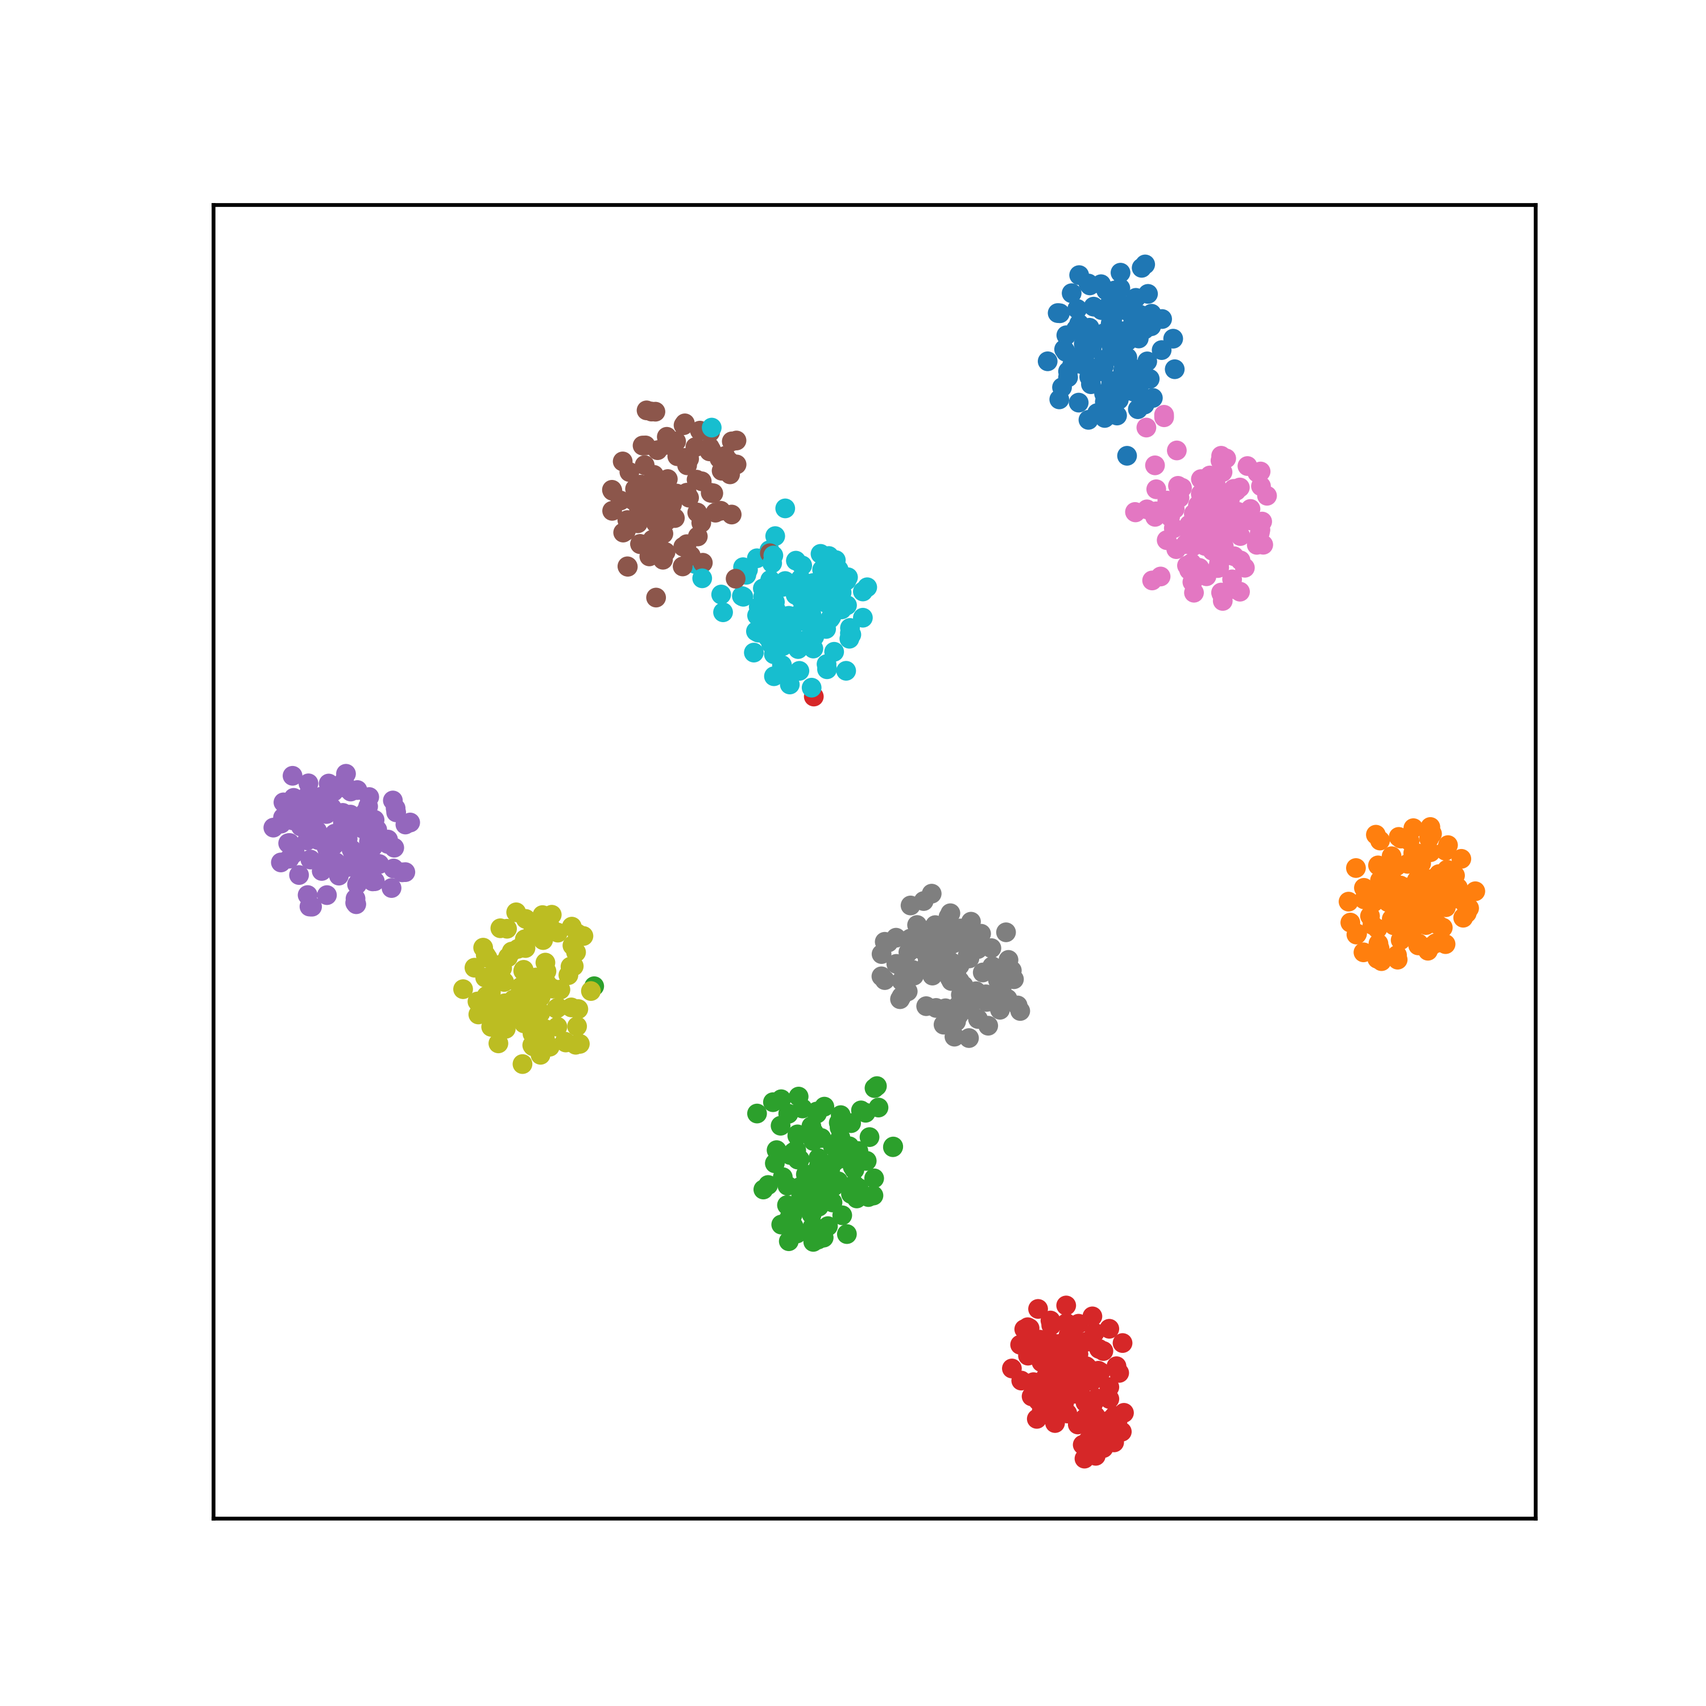
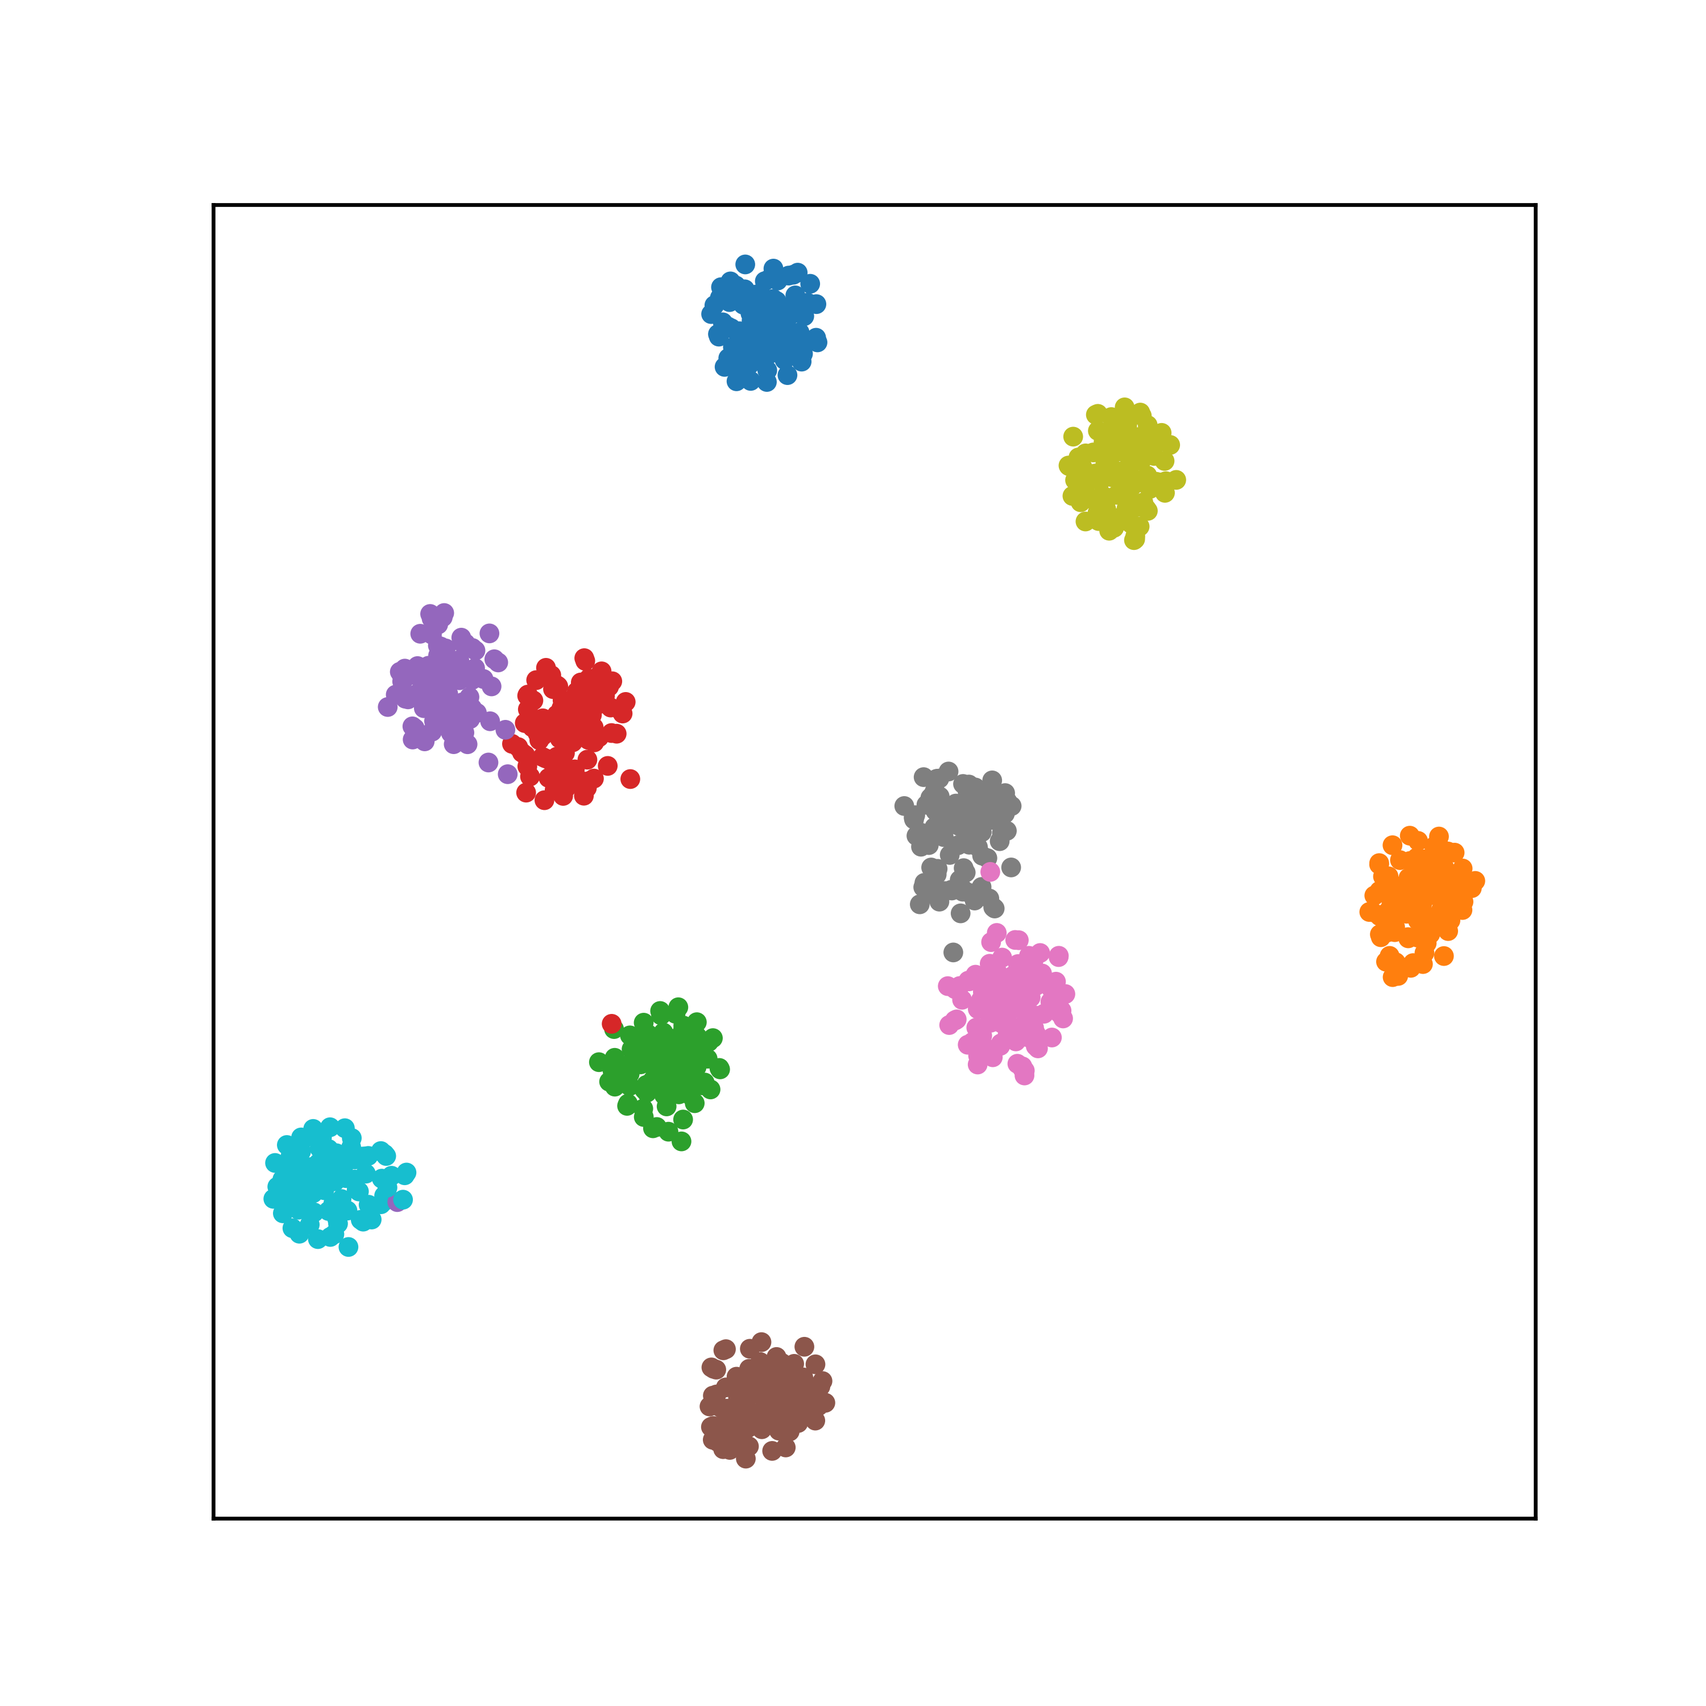
xiugai

diff --git a/selfsupcon_supcon_train_pruned_pipline.py b/selfsupcon_supcon_train_pruned_pipline.py
@@ -343,7 +343,9 @@ def main():
 
         logger.info('epoch {}, total_loss is {:.2f}, supcon_loss is {:.2f}, selfsupcon_loss is {:.2f}'.
                     format(epoch, total_loss, supcon_loss, selfsupcon_loss))
-        epochlist = [300, 350, 400, 450, 500, 550, 600, 650, 700, 750, 800, 850, 900, 950, 1000]
+        # epochlist = [300, 350, 400, 450, 500, 550, 600, 650, 700, 750, 800, 850, 900, 950, 1000]
+        epochlist = [1, 150, 200, 250, 300, 350, 400, 450, 500, 550, 600, 650, 700]
+        k = -4
         if (epoch + 1) in epochlist:
             # 保存模型
             jieduan_ckpt_model_name = '{}_epoch{}_{}_{}.pth.tar'.format(total_loss,
@@ -356,46 +358,57 @@ def main():
             # model_accu + '_' + args.arch + '_' + args.dataset + '_repeat%d' % (args.repeat)
             # fmap_saved_dir = os.path.join("../conv_feature_map", 'selfsupcon-supcon_scrach_train', now,
             #                               str(total_loss) + '_' + args.arch + '_' + args.dataset + '_repeat%d' % (5))
-            fmap_saved_dir = os.path.join("../conv_feature_map", 'selfsupcon-supcon_scrach_train', args.arch, now,
+            fmap_saved_dir = os.path.join("../conv_feature_map", 'selfsupcon-supcon_scrach_train', "k={}".format(k), args.arch, now,
                                           str(total_loss) + '_' + args.dataset + '_repeat%d' % (5))
             fmap_cal_cmd = "python calculate_feature_maps_n.py --arch {} --dataset {} --data_dir ./data " \
                            "--pretrain_dir {} --save_dir {}".format(args.arch, args.dataset, jieduan_ckpt_path, fmap_saved_dir)
             print(fmap_cal_cmd)
             execute_command([fmap_cal_cmd])
 
-            # 计算ci
-            # ci_save_dir = os.path.join('./calculated_ci', 'selfsupcon-supcon_scrach_train', now, str(total_loss) + '_' +
-            #                            args.arch + '_' + args.dataset)
-            # ci_cal_cmd = 'python calculate_ci_n.py --arch {} --repeat 5 --num_layers 55 \
-            # --feature_map_dir {} --save_dir {}'.format(args.arch, fmap_saved_dir, ci_save_dir)
-            # execute_command([ci_cal_cmd])
+            # 计算selfsupcon_supcon_adapter15resnet_56的ci
+            ci_save_dir = os.path.join('./calculated_ci', 'selfsupcon-supcon_scrach_train', "k={}".format(k), now, str(total_loss) + '_' +
+                                       args.arch + '_' + args.dataset)
+            ci_cal_cmd = 'python calculate_ci_n.py --arch {} --repeat 5 --num_layers 55 \
+            --feature_map_dir {} --save_dir {}'.format(args.arch, fmap_saved_dir, ci_save_dir)
+            execute_command([ci_cal_cmd])
 
             # 计算selfsupcon_supcon_adapter15resnet_20的ci
-            ci_save_dir = os.path.join('./calculated_ci', 'selfsupcon-supcon_scrach_train', args.arch, now, str(total_loss) +
-                                        '_' + args.dataset)
-            ci_cal_cmd = 'python calculate_ci_n.py --arch {} --repeat 5 --num_layers 19 \
-                        --feature_map_dir {} --save_dir {}'.format(args.arch, fmap_saved_dir, ci_save_dir)
-            execute_command([ci_cal_cmd])
+            # ci_save_dir = os.path.join('./calculated_ci', 'selfsupcon-supcon_scrach_train', args.arch, now, str(total_loss) +
+            #                             '_' + args.dataset)
+            # ci_cal_cmd = 'python calculate_ci_n.py --arch {} --repeat 5 --num_layers 19 \
+            #             --feature_map_dir {} --save_dir {}'.format(args.arch, fmap_saved_dir, ci_save_dir)
+            # execute_command([ci_cal_cmd])
             # 压缩迁移微调，从cifar10迁移到svhn
-            graf_pruned_60_result_dir = os.path.join('./result/selfsupcon-supcon_graf_pruned', args.arch, now,
-                                                     str(total_loss) + '_' + 'cifar10tosvhn' + '_' +
-                                                     'adapter15resnet_20' + '_' + 'pruned_60')
-            graf_pruned_60_cmd = "python graf_prune_finetune_cifar_n.py --pretrained_dataset cifar10 --finetune_dataset " \
-                                 "svhn --finetune_data_dir ./data/svhn --pretrained_arch adapter15resnet_20 --finetune_arch adapter15resnet_20 " \
-                                 "--result_dir {} --ci_dir {} --batch_size 128 --epochs 300 --lr_type cos --learning_rate 0.01 " \
-                                 "--momentum 0.9 --weight_decay 0.0005 --pretrain_dir {} --sparsity [0.]+[0.3]*2+[0.4]*3+[0.5]*3+[0.6]*3 --adapter_sparsity [0.6]" \
-                                 "".format(graf_pruned_60_result_dir, ci_save_dir, jieduan_ckpt_path)
-            print("graf_pruned_60_cmd: ", graf_pruned_60_cmd)
+            # graf_pruned_60_result_dir = os.path.join('./result/selfsupcon-supcon_graf_pruned', args.arch, now,
+            #                                          str(total_loss) + '_' + 'cifar10tosvhn' + '_' +
+            #                                          'adapter15resnet_20' + '_' + 'pruned_60')
+            # graf_pruned_60_cmd = "python graf_prune_finetune_cifar_n.py --pretrained_dataset cifar10 --finetune_dataset " \
+            #                      "svhn --finetune_data_dir ./data/svhn --pretrained_arch adapter15resnet_20 --finetune_arch adapter15resnet_20 " \
+            #                      "--result_dir {} --ci_dir {} --batch_size 128 --epochs 300 --lr_type cos --learning_rate 0.01 " \
+            #                      "--momentum 0.9 --weight_decay 0.0005 --pretrain_dir {} --sparsity [0.]+[0.3]*2+[0.4]*3+[0.5]*3+[0.6]*3 --adapter_sparsity [0.6]" \
+            #                      "".format(graf_pruned_60_result_dir, ci_save_dir, jieduan_ckpt_path)
+            # print("graf_pruned_60_cmd: ", graf_pruned_60_cmd)
 
             # 压缩迁移微调，从cifar10到cifar10
-            graf_pruned_60_result_dir_normal = os.path.join('./result/selfsupcon-supcon_graf_pruned_normal', args.arch, now,
-                                                     str(total_loss) + '_' +
-                                                     'cifar10tocifar10' + '_' + 'adapter15resnet_20' + '_' + 'pruned_60')
-            graf_pruned_60_cmd_normal = "python graf_prune_finetune_cifar_n.py --pretrained_dataset cifar10 --finetune_dataset " \
-                                 "cifar10 --finetune_data_dir ./data --pretrained_arch adapter15resnet_20 --finetune_arch adapter15resnet_20 " \
-                                 "--result_dir {} --ci_dir {} --batch_size 128 --epochs 300 --lr_type cos --learning_rate 0.01 " \
-                                 "--momentum 0.9 --weight_decay 0.0005 --pretrain_dir {} --sparsity [0.]+[0.3]*2+[0.4]*3+[0.5]*3+[0.6]*3 --adapter_sparsity [0.6]" \
-                                        "".format(graf_pruned_60_result_dir_normal, ci_save_dir, jieduan_ckpt_path)
+            # graf_pruned_60_result_dir_normal = os.path.join('./result/selfsupcon-supcon_graf_pruned_normal', args.arch, now,
+            #                                          str(total_loss) + '_' +
+            #                                          'cifar10tocifar10' + '_' + 'adapter15resnet_20' + '_' + 'pruned_60')
+            # graf_pruned_60_cmd_normal = "python graf_prune_finetune_cifar_n.py --pretrained_dataset cifar10 --finetune_dataset " \
+            #                      "cifar10 --finetune_data_dir ./data --pretrained_arch adapter15resnet_20 --finetune_arch adapter15resnet_20 " \
+            #                      "--result_dir {} --ci_dir {} --batch_size 128 --epochs 300 --lr_type cos --learning_rate 0.01 " \
+            #                      "--momentum 0.9 --weight_decay 0.0005 --pretrain_dir {} --sparsity [0.]+[0.3]*2+[0.4]*3+[0.5]*3+[0.6]*3 --adapter_sparsity [0.6]" \
+            #                             "".format(graf_pruned_60_result_dir_normal, ci_save_dir, jieduan_ckpt_path)
+
+            # 压缩迁移微调，从cifar10到cifar10, 裁剪率70%
+            graf_pruned_70_result_dir_normal = os.path.join('./result/selfsupcon-supcon_graf_pruned_normal', "k=8", args.arch,
+                                                            now,
+                                                            str(total_loss) + '_' +
+                                                            'cifar10tocifar10' + '_' + 'adapter15resnet_56' + '_' + 'pruned_70')
+            graf_pruned_70_cmd_normal = "python graf_prune_finetune_cifar_n.py --pretrained_dataset cifar10 --finetune_dataset " \
+                                        "cifar10 --finetune_data_dir ./data --pretrained_arch adapter15resnet_56 --finetune_arch adapter15resnet_56 " \
+                                        "--result_dir {} --ci_dir {} --batch_size 128 --epochs 300 --lr_type cos --learning_rate 0.05 " \
+                                        "--momentum 0.9 --weight_decay 0.0005 --pretrain_dir {} --sparsity [0.]+[0.4]*2+[0.5]*9+[0.6]*9+[0.67]*9 --adapter_sparsity [0.7]" \
+                                        "".format(graf_pruned_70_result_dir_normal, ci_save_dir, jieduan_ckpt_path)
 
             # graf_pruned_48_result_dir = os.path.join('./result/selfsupcon-supcon_graf_pruned', now, str(total_loss) + '_' +
             #                                          'cifar10tocifar100' + '_' + 'adapter15resnet_56' + '_' + 'pruned_48')
@@ -425,8 +438,9 @@ def main():
             #                      "--adapter_sparsity [0.4]".format(graf_pruned_48_result_dir, ci_save_dir,
             #                                                        jieduan_ckpt_path)
 
-            # graf_pruned_70_result_dir = os.path.join('./result/selfsupcon-supcon_graf_pruned', now, str(total_loss) + '_' +
-            #                                          'cifar10tocifar100' + '_' + 'adapter15resnet_56' + '_' + 'pruned_70')
+            graf_pruned_70_result_dir = os.path.join('./result/selfsupcon-supcon_graf_pruned', "k=8", args.arch,
+                                                     now, str(total_loss) + '_' +
+                                                     'cifar10tocifar100' + '_' + 'adapter15resnet_56' + '_' + 'pruned_70')
             # graf_pruned_70_result_dir = os.path.join('./result/selfsupcon-supcon_graf_pruned', now, str(total_loss) + '_' +
             #                                          'cifar10tocifar100' + '_' + 'resnet_56' + '_' + 'pruned_70')
 
@@ -436,11 +450,11 @@ def main():
             #                                          'cifar100tocifar100' + '_' + 'adapter15resnet_56' + '_' + 'pruned_70')
 
 
-            # graf_pruned_70_cmd = "python graf_prune_finetune_cifar_n.py --pretrained_dataset cifar10 --finetune_dataset " \
-            #                      "cifar100 --finetune_data_dir ./data --pretrained_arch adapter15resnet_56 --finetune_arch adapter15resnet_56 " \
-            #                      "--result_dir {} --ci_dir {} --batch_size 128 --epochs 300 --lr_type cos --learning_rate 0.1 " \
-            #                      "--momentum 0.9 --weight_decay 0.0005 --pretrain_dir {} --sparsity [0.]+[0.4]*2+[0.5]*9+[0.6]*9+[0.7]*9 " \
-            #                      "--adapter_sparsity [0.7]".format(graf_pruned_70_result_dir, ci_save_dir, jieduan_ckpt_path)
+            graf_pruned_70_cmd = "python graf_prune_finetune_cifar_n.py --pretrained_dataset cifar10 --finetune_dataset " \
+                                 "cifar100 --finetune_data_dir ./data --pretrained_arch adapter15resnet_56 --finetune_arch adapter15resnet_56 " \
+                                 "--result_dir {} --ci_dir {} --batch_size 128 --epochs 300 --lr_type cos --learning_rate 0.1 " \
+                                 "--momentum 0.9 --weight_decay 0.0005 --pretrain_dir {} --sparsity [0.]+[0.4]*2+[0.5]*9+[0.6]*9+[0.7]*9 " \
+                                 "--adapter_sparsity [0.7]".format(graf_pruned_70_result_dir, ci_save_dir, jieduan_ckpt_path)
             # graf_pruned_70_cmd = "python graf_prune_finetune_cifar_n.py --pretrained_dataset cifar10 --finetune_dataset " \
             #                      "cifar100 --finetune_data_dir ./data --pretrained_arch resnet_56 --finetune_arch resnet_56 " \
             #                      "--result_dir {} --ci_dir {} --batch_size 128 --epochs 300 --lr_type cos --learning_rate 0.1 " \
@@ -454,7 +468,8 @@ def main():
             #                      "--momentum 0.9 --weight_decay 0.0005 --pretrain_dir {} --sparsity [0.]+[0.4]*2+[0.5]*9+[0.6]*9+[0.7]*9 " \
             #                      "--adapter_sparsity [0.7]".format(graf_pruned_70_result_dir, ci_save_dir,
             #                                                        jieduan_ckpt_path)
-            execute_command([graf_pruned_60_cmd, graf_pruned_60_cmd_normal])
+            # execute_command([graf_pruned_60_cmd, graf_pruned_60_cmd_normal])
+            execute_command([graf_pruned_70_cmd, graf_pruned_70_cmd_normal])
 
         utils.save_checkpoint({'epoch': epoch, 'state_dict': model.state_dict(), 'optimizer':
                                 optimizer.state_dict(),}, False, args.result_dir)

diff --git a/scatter_plot.py b/scatter_plot.py
@@ -112,11 +112,11 @@ if __name__ == '__main__':
     parser.add_argument('--data_dir', type=str, default='./data', help='path to dataset')
     # parser.add_argument('--dataset', type=str, default='cifar10', help='dataset')
     parser.add_argument('--dataset', type=str, default='cifar100', help='dataset')
-    # parser.add_argument('--arc', type=str, default='resnet_56', help='arcs')
+    parser.add_argument('--arc', type=str, default='resnet_56', help='arcs')
     # parser.add_argument('--arc', type=str, default='adapter15resnet_56', help='arcs')
     # parser.add_argument('--arc', type=str, default='selfsupcon_adapter15resnet_56', help='arcs')
     # parser.add_argument('--arc', type=str, default='selfsupcon_supcon_resnet_56', help='arcs')
-    parser.add_argument('--arc', type=str, default='selfsupcon_supcon_adapter15resnet_56', help='arcs')
+    # parser.add_argument('--arc', type=str, default='selfsupcon_supcon_adapter15resnet_56', help='arcs')
     # parser.add_argument('--arc', type=str, default='supcon_adapter15resnet_56', help='arcs')
     # parser.add_argument('--arc', type=str, default='selfsupcon_supcon_adapter_vgg_16_bn', help='arcs')
     # parser.add_argument('--arc', type=str, default='adapter_vgg_16_bn', help='arcs')
@@ -143,7 +143,7 @@ if __name__ == '__main__':
     # model1 = get_model('./pretrained_models/33.39_supcon-ce_adapter15resnet_56_cifar10.pth.tar')
     # name = "72.68_resnet_56_cifar100"
     # name = "72.23_resnet_56_cifar100"
-    # name = "72.60_resnet_56_cifar100"
+    name = "72.60_resnet_56_cifar100"
     # name = "49.48_epoch1000_selfsupcon-supcon_adapter15resnet_56_cifar100"
     # name = "48.77_epoch1000_selfsupcon_supcon_adapter15resnet_56_cifar100"
     # name = "50.07_epoch1000_selfsupcon-supcon_adapter15resnet_56_cifar10"
@@ -182,7 +182,10 @@ if __name__ == '__main__':
     # name = 'epoch1000_1selfsupcon-0supcon_adapter15resnet_56_cifar10'
 
     # name = 'epoch700_1selfsupcon-0supcon_adapter15resnet_56_cifar100'
-    name = 'epoch1000_1selfsupcon-0supcon_adapter15resnet_56_cifar100'
+    # name = 'epoch1000_1selfsupcon-0supcon_adapter15resnet_56_cifar100'
+
+    # name = 'epoch700_1selfsupcon-0supcon_resnet_56_cifar100'
+    # name = 'epoch1000_1selfsupcon-0supcon_resnet_56_cifar100'
 
     model1 = get_model('./pretrained_models/' + name + '.pth.tar', args)
     # model1 = get_model('./pretrained_models/4.30_supcon-ce_adapter15resnet_56_cifar10.pth.tar')

diff --git a/models/selfsupcon_supcon_adapter_resnet.py b/models/selfsupcon_supcon_adapter_resnet.py
@@ -22,7 +22,8 @@ adoch_cfg = {
     'adapter12': [16 * 8] * 3 + [32 * 8] * 3 + [64 * 8] * 3,
     'adapter13': [64 * 8] * 3,
     'adapter14': [64 * 8] * 2,
-    'adapter15': [64 * 8],
+    # 'adapter15': [64 * 8],
+    'adapter15': [64 / 4],
     'adapter16': [64 * 16],
     'adapter17': [64 * 8] * 2,
     'adapter18': [64 * 8] * 3,
@@ -343,8 +344,8 @@ class ResNet(nn.Module):
         supcon_x = self.supconhead(x)
         supcon_x = F.normalize(supcon_x, dim=1)
 
-        # return selfsupcon_x, supcon_x, x
-        return selfsupcon_x, supcon_x
+        return selfsupcon_x, supcon_x, x
+        # return selfsupcon_x, supcon_x
 
 class ResNet_New(nn.Module):
     def __init__(self, block, num_layers, sparsity, num_classes=10, adapter_sparsity=None,

diff --git a/models/resnet_cifar.py b/models/resnet_cifar.py
@@ -180,8 +180,8 @@ class ResNet(nn.Module):
         else:
             x = self.linear(x)
 
-        # return x, feature
-        return x
+        return x, feature
+        # return x
 
 def resnet_56(sparsity, num_classes, dataset=None):
     # 不同的数据集网络结构可能有细微差别

diff --git a/models/adapter_resnet_new_three.py b/models/adapter_resnet_new_three.py
@@ -23,6 +23,7 @@ adoch_cfg = {
     'adapter13': [64 * 8] * 3,
     'adapter14': [64 * 8] * 2,
     'adapter15': [64 * 8],
+    # 'adapter15': [64 / 4],
     'adapter16': [64 * 16],
     'adapter17': [64 * 8] * 2,
     'adapter18': [64 * 8] * 3,
